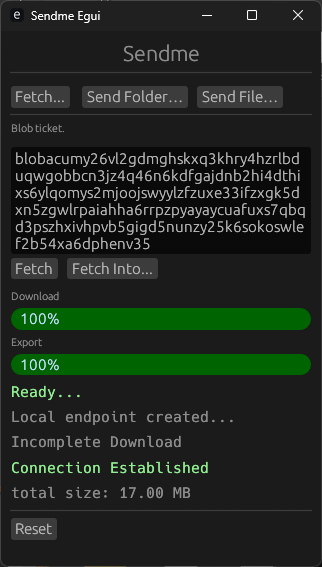
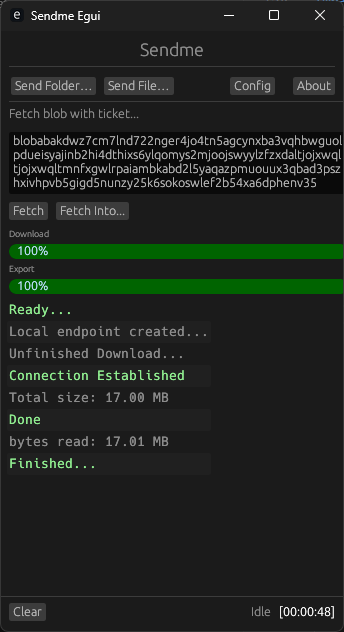
about and new screen shot

diff --git a/src/app.rs b/src/app.rs
@@ -4,6 +4,7 @@ use core::f32;
 use std::fmt::Display;
 use std::path::PathBuf;
 
+use crate::about::ABOUT;
 use crate::comms::{Command, Config, Event, MessageDisplay, MessageType, ProgressList};
 use crate::worker::{Worker, WorkerHandle};
 use anyhow::Result;
@@ -58,6 +59,7 @@ enum AppMode {
     FetchProgess,
     Finished,
     Config,
+    About,
 }
 
 impl Display for AppMode {
@@ -70,6 +72,7 @@ impl Display for AppMode {
             AppMode::FetchProgess => "Fetch Running...",
             AppMode::Finished => "Finished",
             AppMode::Config => "Config",
+            AppMode::About => "About...",
         };
         write!(f, "{}", val)
     }
@@ -267,6 +270,10 @@ impl AppState {
                     }
                 };
                 ui.with_layout(egui::Layout::right_to_left(egui::Align::Center), |ui| {
+                    if ui.button("About").clicked() {
+                        self.mode = AppMode::About;
+                    }
+                    ui.add_space(10.);
                     if ui.button("Config").clicked() {
                         self.mode = AppMode::Config;
                     }
@@ -312,6 +319,7 @@ impl AppState {
             AppMode::Config => {
                 self.show_config(ui);
             }
+            AppMode::About => self.about(ui),
         }
     }
 
@@ -332,7 +340,6 @@ impl AppState {
             _ => {}
         }
     }
-
 
     // Show the config editor ,  needs a restart to work
     fn show_config(&mut self, ui: &mut Ui) {
@@ -369,6 +376,18 @@ impl AppState {
             // Push the config down to the worker
             self.cmd(Command::SendConfig(self.config.clone()));
             // Set idle
+            self.mode = AppMode::Idle;
+        }
+    }
+
+    // About panel
+    fn about(&mut self, ui: &mut Ui) {
+        ui.label(ABOUT);
+        ui.add_space(10.);
+        let _ = ui.hyperlink("https://github.com/zignig/sendme-egui");
+        ui.add_space(10.);
+        ui.separator();
+        if ui.button("Awesome!").clicked() {
             self.mode = AppMode::Idle;
         }
     }

diff --git a/src/about.rs b/src/about.rs
@@ -1,0 +1,6 @@
+// About text
+
+pub const ABOUT: &str = "
+This is an egui version of the sendme, and iroh service that does peer 
+to peer file transfers with minimal infrastrcture in the middle.
+";

diff --git a/src/main.rs b/src/main.rs
@@ -7,6 +7,7 @@ mod app;
 mod comms;
 mod worker;
 mod transport;
+mod about;
 
 use app::App;
 use eframe::NativeOptions;
